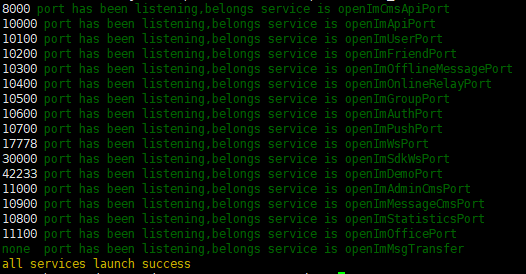
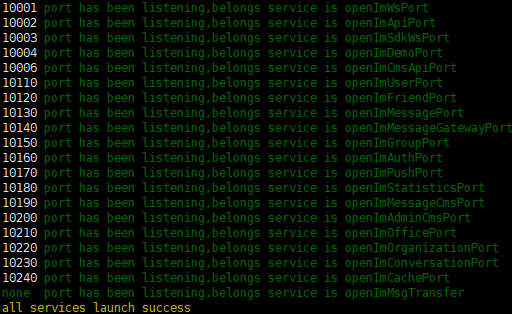
code singe

diff --git a/docs/v2/server_deploy/code_singe.md b/docs/v2/server_deploy/code_singe.md
@@ -1,10 +1,161 @@
 # 源码部署-单机
 
-代码如何下载
+>> 简要说明：OpenIM系统依赖六大组件，在编译部署OpenIM之前需要保证其安装好(以下为官方使用的组件版本)
+```
+1、ETCD（version:{"etcdserver":"3.3.8","etcdcluster":"3.3.0"}）//服务注册与发现
+2、MySQL(version:5.7)//用户业务信息以及管理后台查询消息使用
+3、MongoDB(version:4.0.28)//线上消息存储
+4、Redis(version:redis_version:7.0.0)//业务信息缓存，以及seq缓存
+5、Kafka(version:kafka_2.13-2.8.1,依赖于组件zookeeper(version: 3.4.13-2d71af4dbe22557fda74f9a9b4309b15a7487f03))//消息队列，消息总线解耦
+6、Minio(version:minio version RELEASE.2022-05-26T05-48-41Z)//私有化对象存储服务，用于图片、语音、文件等存储在自己的服务器中（注：如果使用三方云服务器存储媒体文件可不搭建）
+```
 
-如何build 
+## 1、服务器环境说明
+ Linux系统 8G及以上内存  （目前仅支持linux下的部署，其他系统的部署需要自行修改脚本）
+ 获取OpenIM源码需要git环境，服务器如果没有需要安装git
+ OpenIM server端开发语言为go语言，源码部署需要[搭建go语言环境](https://doc.rentsoft.cn/#/qa/docker?id=_1golang%e7%8e%af%e5%a2%83%e5%ae%89%e8%a3%85)
 
-如何修改配置
+## 2、拉取项目源码
+>>OpenIM-Server源码中包含两个仓库，一个是外部仓库/Open-IM-Server，一个是位于/Open-IM-Server/cmd/Open-IM-SDK-Core的子仓库（用于web端使用）
+```
+git clone https://github.com/OpenIMSDK/Open-IM-Server.git --recursive（注:如果服务器网络不好,或者没有vpn代理无法获取github代码,可以自行前往该地址,获取最新tag代码并上传到服务器）
+使用此命令拉取项目后，进入cmd/Open-IM-SDK-Core,使用git checkout main将Open-IM-SDK-Core子仓库切换到main分支下
+(注：如果项目中cmd/Open-IM-SDK-Core这个子模块无法正常拉取，文件夹为空，可前往https://github.com/OpenIMSDK/Open-IM-SDK-Core，获取最新tag代码，上传服务器到/Open-IM-Server/cmd/目录下)
+```
+## 3、修改配置文件参数
+```
+cd Open-IM-Server
+vim config.yaml
+```
 
+- 修改 Etcd 配置项
 
+```
+etcd:
+  etcdAddr: [ 127.0.0.1:2379 ]//组件部署在本地默认IP+监听端口即可，部署在其他服务器，更换为服务监听的IP+端口
+```
 
+- 修改MySQL配置项
+
+```
+mysql:
+  dbAddress: [ 127.0.0.1:13306 ]//组件部署在本地默认IP+监听端口(部署的MySQL端口默认为3306，如果未修改，记得修改此项配置)即可，部署在其他服务器，更换为服务监听的IP+端口
+  dbUserName: root //修改为部署的MySQL账户名
+  dbPassword: openIM //修改为部署的MySQL密码
+```
+
+- 修改MongoDB配置项
+
+```
+ mongo:
+   dbAddress: 127.0.0.1:37017 //组件部署在本地默认IP+监听端口即可，部署在其他服务器，更换为服务监听的IP+端口
+   dbDatabase: openIM //mongo中初始化的数据库名称，可修改
+   dbUserName:
+   dbPassword:
+```
+
+- 修改 Redis配置项
+
+```
+ redis:
+  dbAddress: [ 127.0.0.1:6379 ]
+  dbPassWord: openIM #redis密码 修改为部署的redis密码
+  enableCluster: false #如果外部redis以集群方式启动，需要打开此开关，单机默认
+```
+
+- 修改 Kafka 配置项
+
+```
+kafka:
+    ws2mschat:
+    addr: [ 127.0.0.1:9092 ] //组件部署在本地默认IP+监听端口即可，部署在其他服务器，更换为服务监听的IP+端口
+    topic: "ws2ms_chat"
+  ws2mschatoffline:
+    addr: [ 127.0.0.1:9092 ] //组件部署在本地默认IP+监听端口即可，部署在其他服务器，更换为服务监听的IP+端口
+    topic: "ws2ms_chat_offline"
+  msgtomongo:
+    addr: [ 127.0.0.1:9092 ] //组件部署在本地默认IP+监听端口即可，部署在其他服务器，更换为服务监听的IP+端口
+    topic: "msg_to_mongo"
+  ms2pschat:
+    addr: [ 127.0.0.1:9092 ] //组件部署在本地默认IP+监听端口即可，部署在其他服务器，更换为服务监听的IP+端口
+    topic: "ms2ps_chat"
+```
+-  修改minio配置项
+```
+minio:(如不使用minio存储可忽略)
+    endpoint: http://127.0.0.1:10005 //minio外网ip 这个ip是给客户端访问的，如果服务搭建要对外，127.0.0.1
+    endpointInner: http://127.0.0.1:10005 //minio内网地址 如果im server 可以通过内网访问到 minio就可以填写
+    endpointInnerEnable: true //是否启用minio内网地址 启用可以让桶初始化，IM server连接minio走内网地址访问，保持默认
+    accessKeyID: user12345 //组件配置的id
+    secretAccessKey: key12345 //组件配置的key
+```
+## 4、编译构建
+```
+cd Open-IM-server/script
+chmod +x *.sh
+./build_all_service.sh
+```
+![编译结果](../../images/build_succ.png)
+
+如图所示，表示编译成功。
+
+## 5、启动服务并检查
+
+```
+./start_all.sh; ./check_all.sh
+```
+![check结果](../../images/deploy_check.png)
+
+如图所示，表示正常启动。
+
+## 6、IM开放端口
+| IM端口    | 说明                                    | 操作                                |
+| --------- | --------------------------------------- | ----------------------------------- |
+| TCP:10001（之前的17778端口） | ws协议，消息端口，比如消息发送，推送等。  | 端口放行或nginx反向代理，关闭防火墙 |
+| TCP:10002（之前的10000端口）| api端口，比如用户、好友、群组等接口。     | 端口放行或nginx反向代理，关闭防火墙 |
+| TCP:10003（之前的30000端口）| ws协议，针对jssdk的专用端口。           | 端口放行或nginx反向代理，关闭防火墙 |
+| TCP:10004（之前的42233端口）| demo使用的用户注册登录端口。            | 端口放行或nginx反向代理，关闭防火墙 |
+| TCP:10005（之前的9000端口）| 选择minio存储时需要开通。(openIM的demo默认使用minio存储) | 端口放行或nginx反向代理，关闭防火墙 |
+| TCP:10006（之前的8000端口）| 管理后台api端口，需要管理后台服务时开通。 | 端口放行或nginx反向代理，关闭防火墙 |
+
+注：如果使用nginx做反向代理，则只需要开放443端口即可。至此openIM的服务器已经搭建完毕，可通过[下载体验app修改IP](https://doc.rentsoft.cn/#/v2/validation/app)的方式访问验证。
+
+# 源码部署-单机-更新代码
+```
+源码更新说明: openIM发布新的版本后，会更新项目文件到main分支下，除开源代码外，还有配置文件，config/config.yaml、文件会更新，用户如果修改过这个文件，在使用git pull可能会有冲突，需要自行备份，然后比对，解决冲突，重新放置到中config/。
+```
+## 1.关闭服务
+
+```
+cd Open-IM-Server/script ; ./stop_all.sh 
+```
+## 2.备份修改过的文件
+```
+config/config.yaml文件,可将其重命名为config_bak.yaml
+```
+## 3.拉取最新配置文件和源代码
+
+```
+git pull(注:可通过git branch -a 确保自己在main分支下)
+```
+## 4.修改配置文件冲突
+```
+config/config.yaml文件冲突，将备份文件config_bak.yaml和新版本config.yaml比对合并
+```
+## 5.重新构建编译
+
+```
+./build_all_service.sh
+```
+
+## 6.重新启动服务
+
+```
+./start_all.sh
+```
+
+## 7.检查
+
+```
+./check_all.sh
+```
